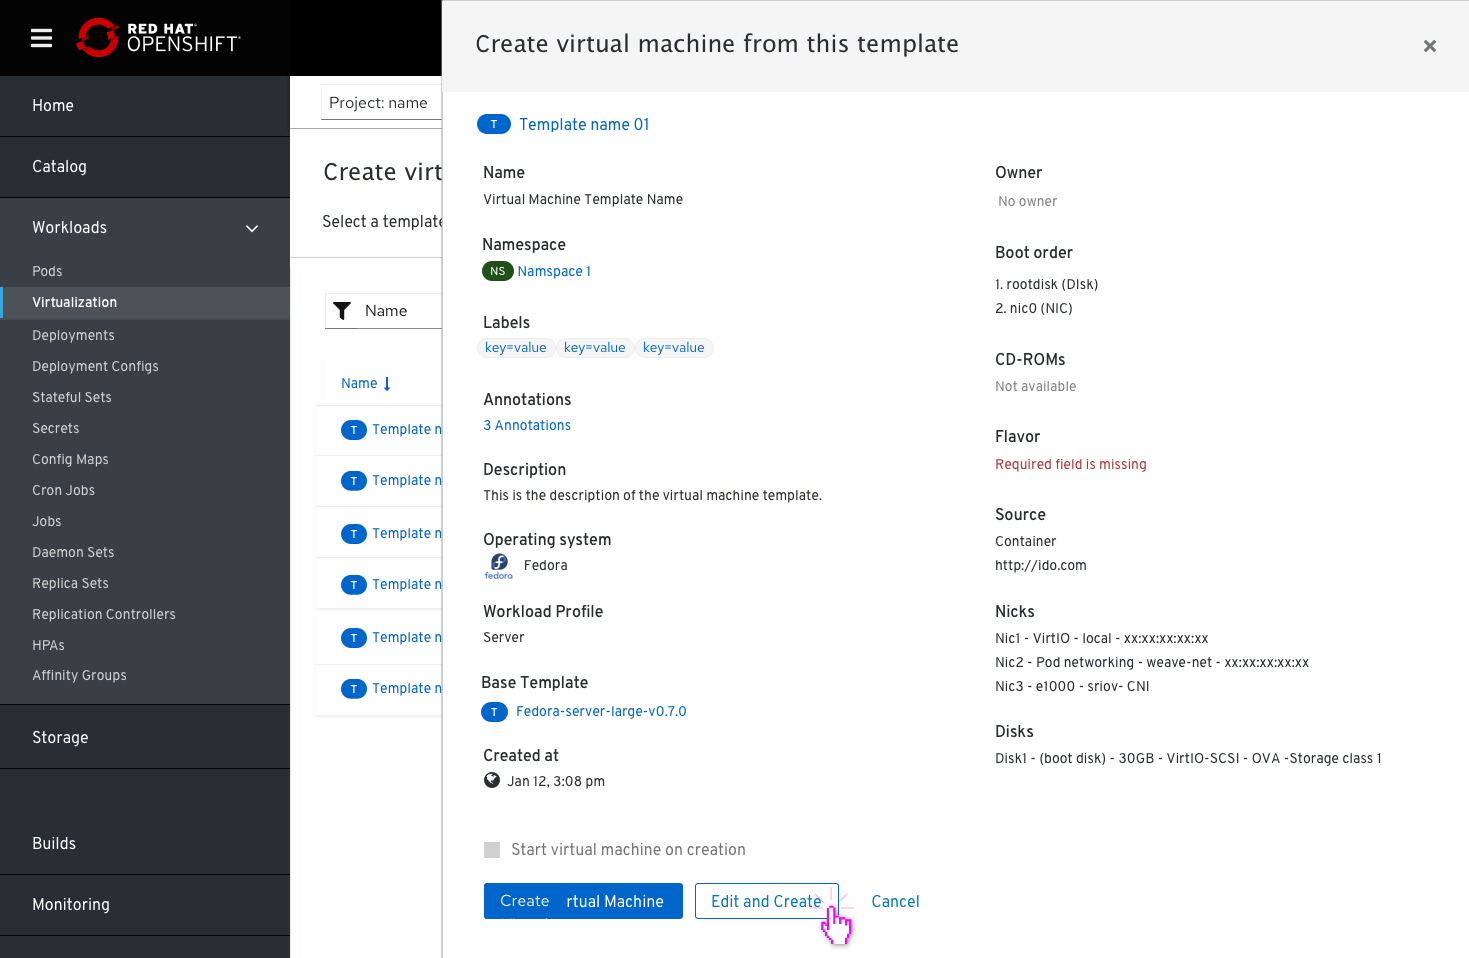
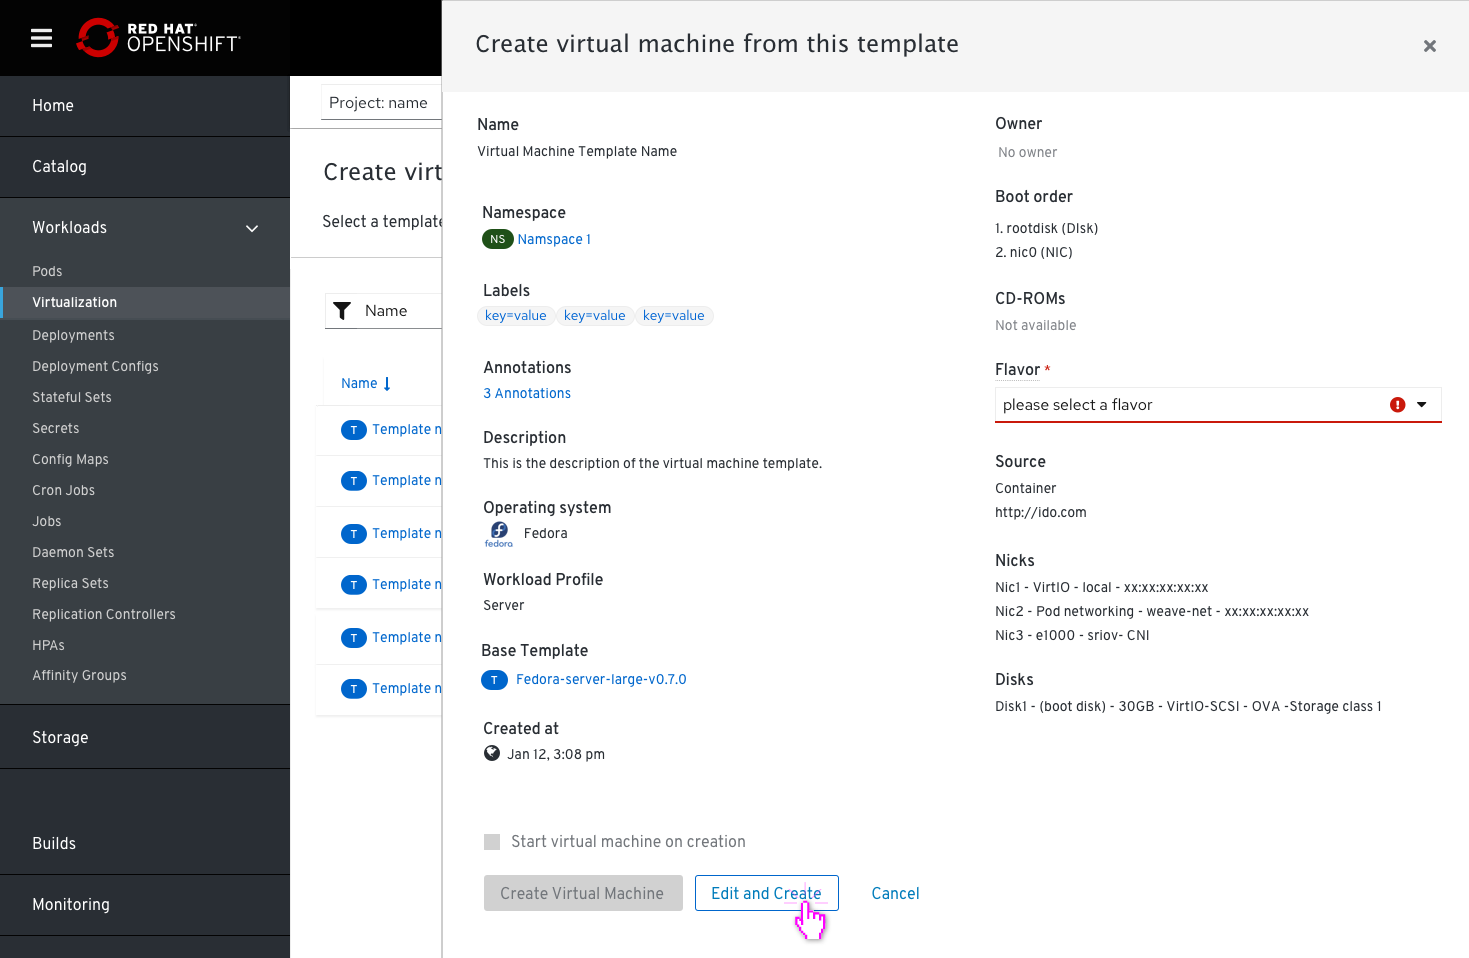
updates in md and files

diff --git a/designs/virtualization/4.x/Templates/Templates.md b/designs/virtualization/4.x/Templates/Templates.md
@@ -1,9 +1,9 @@
 # Templates
 
-## Removing the tab 'Virtual Machine Templates' and adding it to 'Virtual Machines' to be under 'Virtualization'
+## Virtual machines and VM templates are located under Virtualization
 
-Removing the tab ‘Virtual Machine Templates’ from the side navigation and combine it with the ‘Virtual Machines’ item. A new left navigation tab named ‘Virtualization’ will now nest 2 inner tabs: 'Virtual Machines' and 'Virtual Machines Templates'.
-This PR will also show how users can create VMs from each of the 4 options they have in the dropdown of creating Virtual Machine.
+Removing the tab ‘Virtual Machine Templates’ from the side navigation and combining it with ‘Virtual Machines’, so both are located under ‘Virtualization’.
+This PR will focus on how users can create a VM when they choose a to create a VM from a Template.
 
 ### Virtual Machines Tab
 
@@ -11,11 +11,9 @@ This PR will also show how users can create VMs from each of the 4 options they 
 
 ### Virtual Machine Templates Tab
 
-![TemplatesTab](img/TemplatesTabs.png)
+![TemplatesTab](img/Templatestabs.png)
 
-![SelectingCustomFromDropdown](img/Dropdown_Templates Tabs.png)
-
-If a user wants to create a Virtual Machine, there are several options to do it from the drop down menu of the Virtual Machines tab:
+If a user wants to create a Virtual Machine, there are 4 options to do it from the drop down menu of the create Virtual Machines dropdown:
 
 - Create custom
 - Create from template
@@ -30,35 +28,19 @@ they will get to the first page of the wizard (note that the template field is r
 
 ![CustomWizard](img/Custom_wizard.png)
 
-#### If they choose to create a VM from Template
+#### If they choose to create a VM from a Template
 
 ![SelectingTemplateFromDropdown](img/Dropdown_CreateTemplate.png)
 
 They will get a list of templates to select from.
 ![List of all the Templates](img/ListOfTemplates.png)
 
-In case a user selects a template that has required fields that aren’t filled and need some additional editing by the user, they will be notified about it.
+In case a user selects a template that has required fields that are missing, these fields will be poped out and the 'create VM' button will become disabled untill they are edited.
 
 ![If a required field is missing](img/RequiredFieldsMissing.png)
 
-This can be done in the General step of the wizard with all the editing options we have for creating a VM.  The info will be already provided into the wizard and the names of the required fields will be mentioned in the message so that they could be easily located and the user can complete them.
+Missing fields as well as a name are required to create a VM so users will need to fill these fields in order to proceed.
 
-![Editing the missing info](img/Step-1-basic-template.png)
+![Editing the missing info](img/AddingName.png)
 
 Once completed the user will be able to create the VM.
-
-![User can create the VM from the Template](img/CreateVM_fromTemplate.png)
-
-#### If they choose to Import
-
-If they choose Import from the drop down menu, they will get to the import wizard.
-
-![SelectingImportFromDropdown](img/Dropdown_Import.png)
-
-![ImportWizard](img/Import_wizard.png)
-
-#### If they choose YAML
-
-If they choose YAML they will get the YAML flow.
-
-![ImportWizard](img/Dropdown_FromYAML.png)
